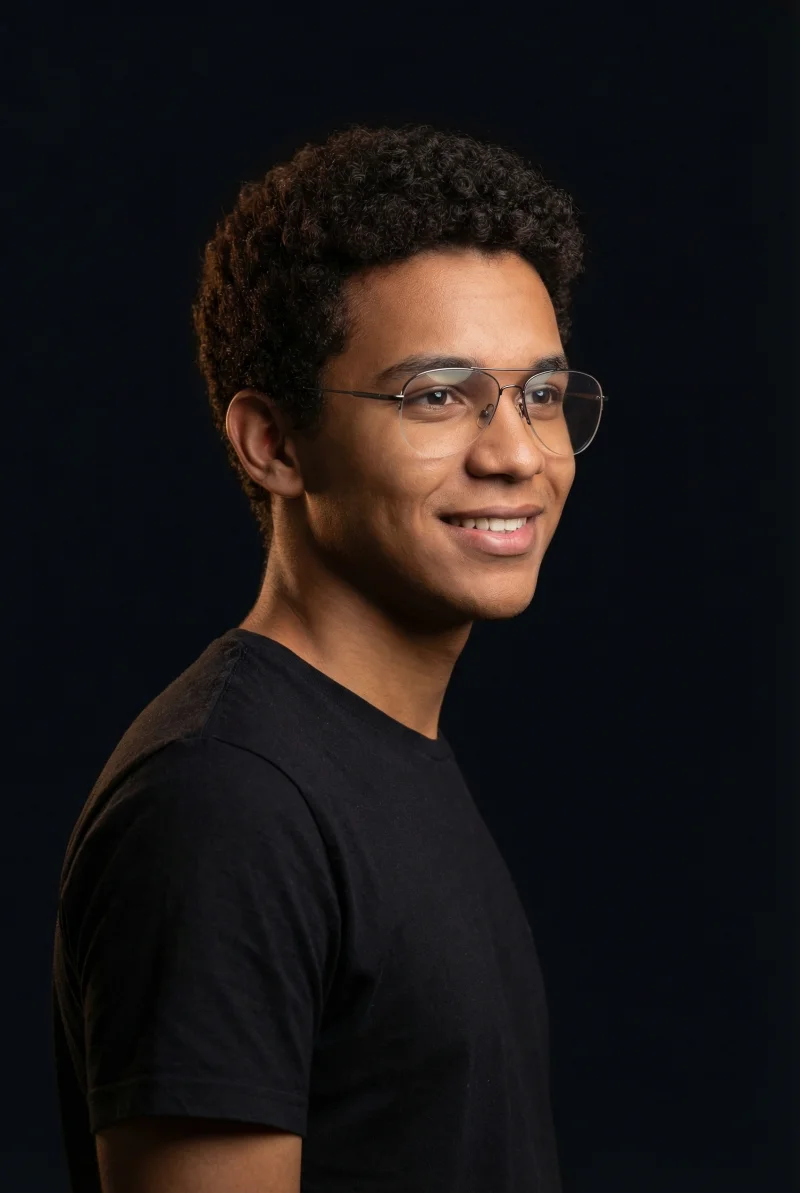
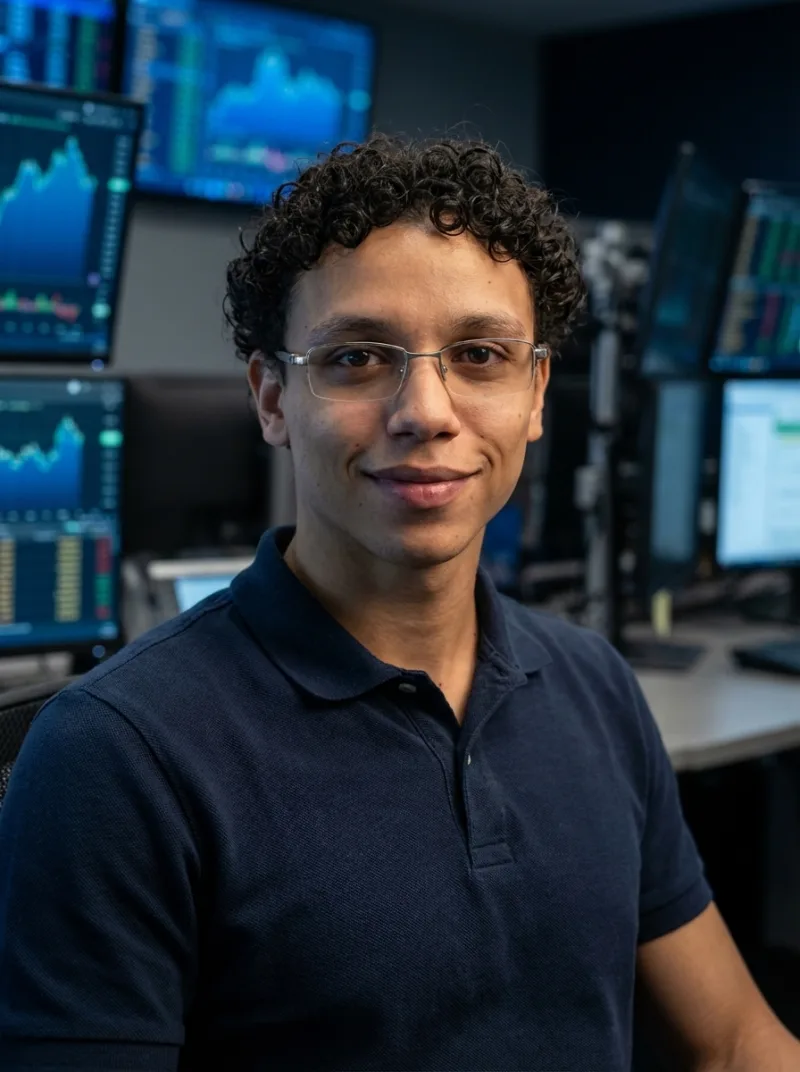
v3: Fotos Bryan reais, depoimentos, tabela mobile-friendly
- Fotos Bryan geradas via Gemini com foto real como referência
- 10 depoimentos reais convertidos para webp na prova social
- Tabela comparativa substituída por cards mobile-friendly
- Removidos placeholders de screenshots

diff --git a/index.html b/index.html
@@ -175,54 +175,87 @@
         </div>
     </section>
 
-    <!-- ===== SEÇÃO COMPARATIVA (nova) ===== -->
+    <!-- ===== SEÇÃO COMPARATIVA ===== -->
     <section class="comparison fade-in">
         <div class="container">
             <h2 class="section-title">Por que o Método Espelho é Diferente</h2>
             <p class="section-subtitle">Compare e entenda por que mais de 13 mil pessoas escolheram esse caminho.</p>
-            <div class="comparison-table-wrapper">
-                <table class="comparison-table">
-                    <thead>
-                        <tr>
-                            <th class="comparison-aspect"></th>
-                            <th class="comparison-others">Tentar Sozinho</th>
-                            <th class="comparison-others">Sala de Sinais</th>
-                            <th class="comparison-mirror">Método Espelho</th>
-                        </tr>
-                    </thead>
-                    <tbody>
-                        <tr>
-                            <td class="comparison-label">Você vê a operação?</td>
-                            <td class="comparison-no">Só você e o gráfico</td>
-                            <td class="comparison-no">Texto com atraso</td>
-                            <td class="comparison-yes">Tela ao vivo, mesmo segundo</td>
-                        </tr>
-                        <tr>
-                            <td class="comparison-label">Precisa estudar?</td>
-                            <td class="comparison-no">Meses de estudo</td>
-                            <td class="comparison-no">Precisa interpretar sinais</td>
-                            <td class="comparison-yes">Zero. Só copiar.</td>
-                        </tr>
-                        <tr>
-                            <td class="comparison-label">Transparência</td>
-                            <td class="comparison-no">Só você sabe se errou</td>
-                            <td class="comparison-no">Prints editáveis</td>
-                            <td class="comparison-yes">Câmera aberta, conta real</td>
-                        </tr>
-                        <tr>
-                            <td class="comparison-label">Frequência</td>
-                            <td class="comparison-no">Quando der vontade</td>
-                            <td class="comparison-no">1x por dia ou nenhuma</td>
-                            <td class="comparison-yes">Todo dia, de segunda a sexta</td>
-                        </tr>
-                        <tr>
-                            <td class="comparison-label">Custo</td>
-                            <td class="comparison-no">Cursos de R$ 500+</td>
-                            <td class="comparison-no">Mensalidade</td>
-                            <td class="comparison-yes">100% gratuito</td>
-                        </tr>
-                    </tbody>
-                </table>
+            <div class="comparison-cards">
+                <div class="comparison-card">
+                    <h3 class="comparison-card-title">Você vê a operação?</h3>
+                    <div class="comparison-option comparison-bad">
+                        <span class="comparison-tag">Sozinho</span>
+                        <span>Só você e o gráfico</span>
+                    </div>
+                    <div class="comparison-option comparison-bad">
+                        <span class="comparison-tag">Sala de Sinais</span>
+                        <span>Texto com atraso</span>
+                    </div>
+                    <div class="comparison-option comparison-good">
+                        <span class="comparison-tag comparison-tag-green">Método Espelho</span>
+                        <span>Tela ao vivo, mesmo segundo</span>
+                    </div>
+                </div>
+                <div class="comparison-card">
+                    <h3 class="comparison-card-title">Precisa estudar?</h3>
+                    <div class="comparison-option comparison-bad">
+                        <span class="comparison-tag">Sozinho</span>
+                        <span>Meses de estudo</span>
+                    </div>
+                    <div class="comparison-option comparison-bad">
+                        <span class="comparison-tag">Sala de Sinais</span>
+                        <span>Precisa interpretar sinais</span>
+                    </div>
+                    <div class="comparison-option comparison-good">
+                        <span class="comparison-tag comparison-tag-green">Método Espelho</span>
+                        <span>Zero. Só copiar.</span>
+                    </div>
+                </div>
+                <div class="comparison-card">
+                    <h3 class="comparison-card-title">Transparência</h3>
+                    <div class="comparison-option comparison-bad">
+                        <span class="comparison-tag">Sozinho</span>
+                        <span>Só você sabe se errou</span>
+                    </div>
+                    <div class="comparison-option comparison-bad">
+                        <span class="comparison-tag">Sala de Sinais</span>
+                        <span>Prints editáveis</span>
+                    </div>
+                    <div class="comparison-option comparison-good">
+                        <span class="comparison-tag comparison-tag-green">Método Espelho</span>
+                        <span>Câmera aberta, conta real</span>
+                    </div>
+                </div>
+                <div class="comparison-card">
+                    <h3 class="comparison-card-title">Frequência</h3>
+                    <div class="comparison-option comparison-bad">
+                        <span class="comparison-tag">Sozinho</span>
+                        <span>Quando der vontade</span>
+                    </div>
+                    <div class="comparison-option comparison-bad">
+                        <span class="comparison-tag">Sala de Sinais</span>
+                        <span>1x por dia ou nenhuma</span>
+                    </div>
+                    <div class="comparison-option comparison-good">
+                        <span class="comparison-tag comparison-tag-green">Método Espelho</span>
+                        <span>Todo dia, de segunda a sexta</span>
+                    </div>
+                </div>
+                <div class="comparison-card">
+                    <h3 class="comparison-card-title">Custo</h3>
+                    <div class="comparison-option comparison-bad">
+                        <span class="comparison-tag">Sozinho</span>
+                        <span>Cursos de R$ 500+</span>
+                    </div>
+                    <div class="comparison-option comparison-bad">
+                        <span class="comparison-tag">Sala de Sinais</span>
+                        <span>Mensalidade</span>
+                    </div>
+                    <div class="comparison-option comparison-good">
+                        <span class="comparison-tag comparison-tag-green">Método Espelho</span>
+                        <span>100% gratuito</span>
+                    </div>
+                </div>
             </div>
         </div>
     </section>
@@ -233,27 +266,36 @@
             <h2 class="section-title">O que a Comunidade Está Dizendo</h2>
             <p class="section-subtitle">Screenshots reais do canal no Telegram.</p>
             <div class="screenshots-grid">
-                <!-- Substituir pelos screenshots reais do Telegram do Bryan -->
-                <!-- Censurar nomes e fotos de membros. Mínimo 6 screenshots. -->
                 <div class="screenshot-card">
-                    <div class="screenshot-placeholder">Screenshot 1 — Adicionar print real do Telegram</div>
+                    <img src="images/depoimentos/01-arthur-sessao-r346.webp" alt="Depoimento: sessão positiva de R$346" loading="lazy">
                 </div>
                 <div class="screenshot-card">
-                    <div class="screenshot-placeholder">Screenshot 2 — Adicionar print real do Telegram</div>
+                    <img src="images/depoimentos/02-daniela-ganhando-todos-dias.webp" alt="Depoimento: ganhando dinheiro nas lives todos os dias" loading="lazy">
                 </div>
                 <div class="screenshot-card">
-                    <div class="screenshot-placeholder">Screenshot 3 — Adicionar print real do Telegram</div>
+                    <img src="images/depoimentos/03-fabio-2-live-2-app.webp" alt="Depoimento: pegou 2 na live e mais 2 no app" loading="lazy">
                 </div>
                 <div class="screenshot-card">
-                    <div class="screenshot-placeholder">Screenshot 4 — Adicionar print real do Telegram</div>
+                    <img src="images/depoimentos/04-bruno-r57-r56-forramos.webp" alt="Depoimento: lucro de R$57 e R$56" loading="lazy">
                 </div>
                 <div class="screenshot-card">
-                    <div class="screenshot-placeholder">Screenshot 5 — Adicionar print real do Telegram</div>
+                    <img src="images/depoimentos/05-luan-r40-r80-r102.webp" alt="Depoimento: lucros de R$40, R$80 e R$102" loading="lazy">
                 </div>
                 <div class="screenshot-card">
-                    <div class="screenshot-placeholder">Screenshot 6 — Adicionar print real do Telegram</div>
+                    <img src="images/depoimentos/06-ale-zyon-ia-ferramenta.webp" alt="Depoimento: ferramenta Zyon IA" loading="lazy">
                 </div>
-                <!-- Formato: <div class="screenshot-card"><img src="images/screenshots/01.webp" alt="Depoimento da comunidade" loading="lazy"></div> -->
+                <div class="screenshot-card">
+                    <img src="images/depoimentos/07-langerson-ganhos-duas-lives.webp" alt="Depoimento: ganhos das duas lives da tarde" loading="lazy">
+                </div>
+                <div class="screenshot-card">
+                    <img src="images/depoimentos/08-daniela-desempenho-qualidade.webp" alt="Depoimento: desempenho de alta qualidade" loading="lazy">
+                </div>
+                <div class="screenshot-card">
+                    <img src="images/depoimentos/09-ale-3x0-aprendendo.webp" alt="Depoimento: 3x0 aprendendo a fazer leituras" loading="lazy">
+                </div>
+                <div class="screenshot-card">
+                    <img src="images/depoimentos/10-pedro-so-verde-historico.webp" alt="Depoimento: só verde no histórico" loading="lazy">
+                </div>
             </div>
             <div class="cta-container">
                 <a href="https://t.me/+fpu9RPK1HRk1Y2Vh" class="cta-button">

diff --git a/css/style.css b/css/style.css
@@ -510,90 +510,76 @@ section {
 }
 
 /* ===================================
-   SEÇÃO COMPARATIVA (nova)
+   SEÇÃO COMPARATIVA
    =================================== */
 .comparison {
     background: var(--color-bg-alt);
 }
 
-.comparison-table-wrapper {
-    overflow-x: auto;
-    -webkit-overflow-scrolling: touch;
-    margin: 0 -20px;
-    padding: 0 20px;
+.comparison-cards {
+    display: flex;
+    flex-direction: column;
+    gap: 16px;
 }
 
-.comparison-table {
-    width: 100%;
-    min-width: 580px;
-    border-collapse: separate;
-    border-spacing: 0;
-    font-size: 14px;
-}
-
-.comparison-table th,
-.comparison-table td {
-    padding: 14px 16px;
-    text-align: left;
-    border-bottom: 1px solid var(--color-border);
-    vertical-align: middle;
-}
-
-.comparison-table thead th {
+.comparison-card {
     background: var(--color-surface);
-    font-size: 13px;
+    border: 1px solid var(--color-border);
+    border-radius: var(--radius-md);
+    padding: 20px;
+}
+
+.comparison-card-title {
+    font-size: 15px;
     font-weight: 700;
-    text-transform: uppercase;
-    letter-spacing: 0.5px;
-    color: var(--color-gray-light);
-    white-space: nowrap;
-}
-
-.comparison-table thead th:first-child {
-    border-radius: var(--radius-sm) 0 0 0;
-}
-
-.comparison-table thead th:last-child {
-    border-radius: 0 var(--radius-sm) 0 0;
-}
-
-.comparison-mirror {
-    background: rgba(0, 200, 83, 0.08) !important;
-    color: var(--color-green) !important;
-    border-left: 2px solid var(--color-green);
-}
-
-.comparison-table tbody td {
-    background: var(--color-bg);
-}
-
-.comparison-label {
-    font-weight: 600;
     color: var(--color-white);
-    white-space: nowrap;
+    margin-bottom: 12px;
+    text-align: center;
 }
 
-.comparison-no {
+.comparison-option {
+    display: flex;
+    align-items: center;
+    gap: 12px;
+    padding: 10px 12px;
+    border-radius: var(--radius-sm);
+    font-size: 14px;
+    line-height: 1.4;
+}
+
+.comparison-option + .comparison-option {
+    margin-top: 6px;
+}
+
+.comparison-bad {
     color: var(--color-gray);
 }
 
-.comparison-yes {
+.comparison-good {
     color: var(--color-green);
     font-weight: 600;
-    background: rgba(0, 200, 83, 0.04) !important;
-    border-left: 2px solid var(--color-green);
+    background: rgba(0, 200, 83, 0.06);
+    border: 1px solid rgba(0, 200, 83, 0.15);
 }
 
-.comparison-table tbody tr:last-child td {
-    border-bottom: none;
+.comparison-tag {
+    font-size: 11px;
+    font-weight: 700;
+    text-transform: uppercase;
+    letter-spacing: 0.5px;
+    padding: 3px 8px;
+    border-radius: 4px;
+    background: rgba(255, 255, 255, 0.06);
+    color: var(--color-gray);
+    white-space: nowrap;
+    min-width: 90px;
+    text-align: center;
+    flex-shrink: 0;
 }
 
-.comparison-table tbody tr:last-child td:first-child {
-    border-radius: 0 0 0 var(--radius-sm);
-}
-
-.comparison-table tbody tr:last-child td:last-child {
-    border-radius: 0 0 var(--radius-sm) 0;
+.comparison-tag-green {
+    background: rgba(0, 200, 83, 0.12);
+    color: var(--color-green);
 }
 
 /* ===================================
@@ -862,13 +848,16 @@ section {
         grid-template-columns: repeat(3, 1fr);
     }
 
-    .comparison-table-wrapper {
-        margin: 0;
-        padding: 0;
+    .comparison-cards {
+        display: grid;
+        grid-template-columns: 1fr 1fr;
+        gap: 20px;
     }
 
-    .comparison-table {
-        font-size: 15px;
+    .comparison-card:last-child {
+        grid-column: 1 / -1;
+        max-width: 50%;
+        justify-self: center;
     }
 
     .cta-final-highlight {
@@ -904,13 +893,17 @@ section {
         font-size: 36px;
     }
 
-    .comparison-table {
-        font-size: 16px;
+    .comparison-cards {
+        grid-template-columns: repeat(3, 1fr);
     }
 
-    .comparison-table th,
-    .comparison-table td {
-        padding: 16px 20px;
+    .comparison-card:nth-child(4) {
+        grid-column: auto;
+    }
+
+    .comparison-card:last-child {
+        grid-column: auto;
+        max-width: none;
     }
 }
 
